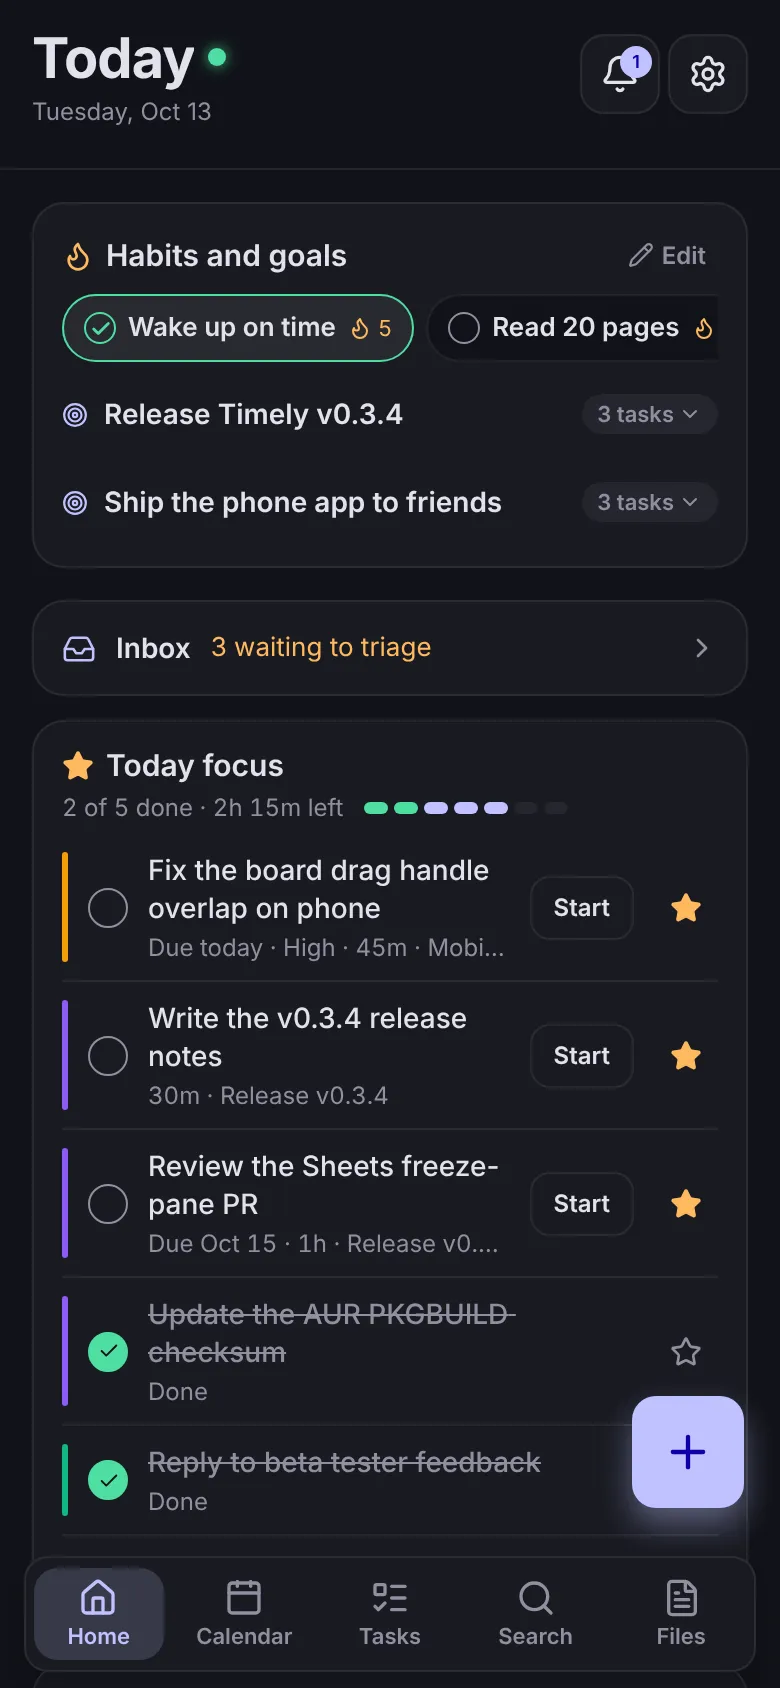
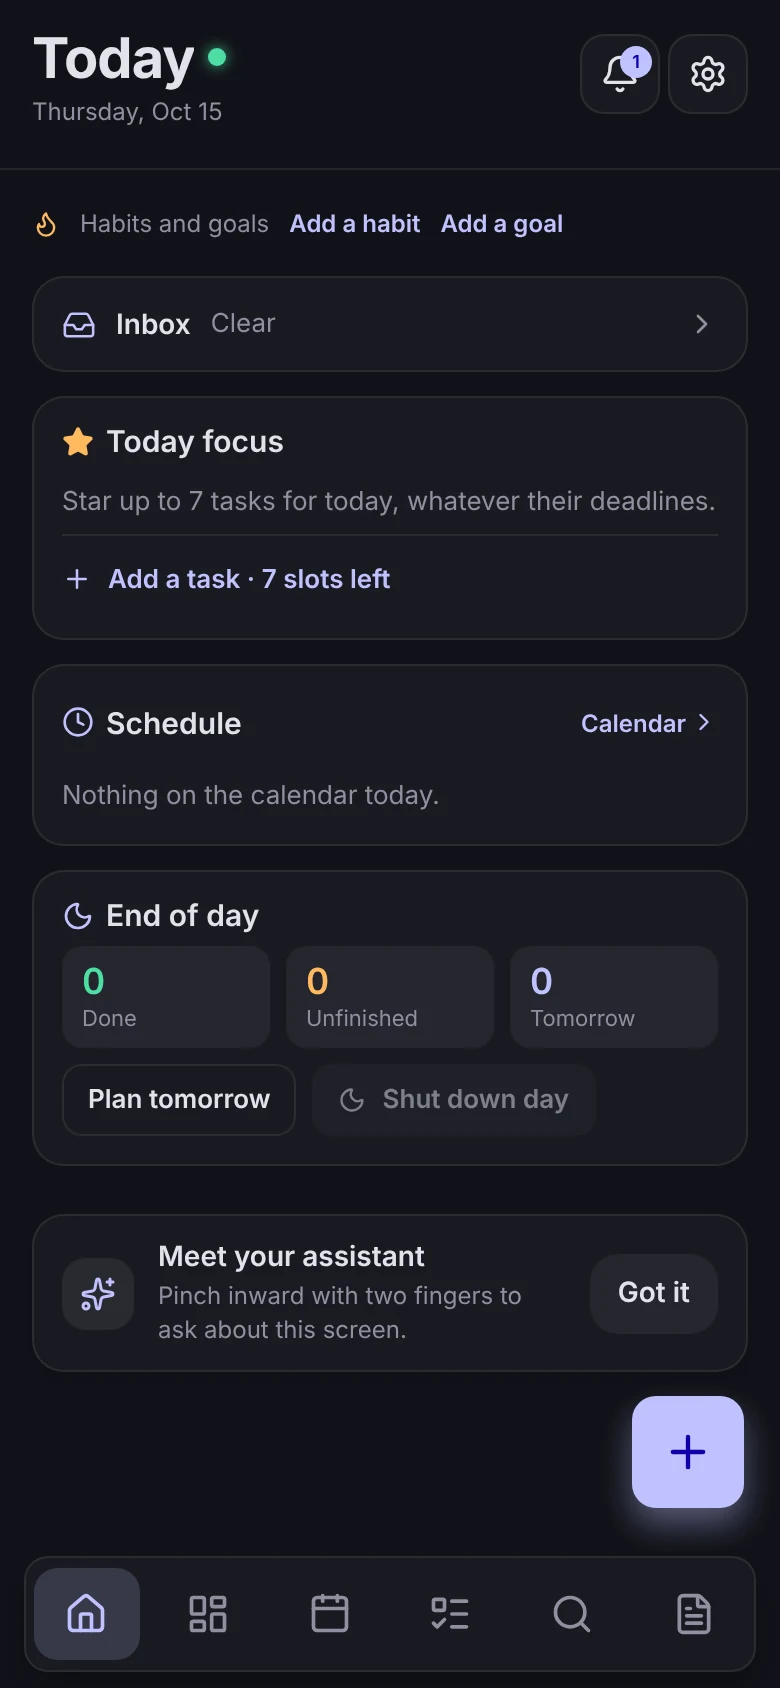
Help home: what's new since v0.3.3, fresh screenshots, fixed links
Adds a "New since v0.3.3" list to the help home, switches its tours to
the card workshop, widgets and assistant chapters, and fixes the landing
film's links to the Inbox and widgets articles. New help screenshots
from the real app: Today as a day board, the Card workshop, search
views, the phone Home with the icon bar, and the Android widgets.

Claude-Session: https://claude.ai/code/session_01VbiCjzuFRnKb4ZiA6E3HZ2

diff --git a/apps/web/app/help/page.tsx b/apps/web/app/help/page.tsx
@@ -28,8 +28,20 @@ const PLATFORMS = [
   { name: "Android", detail: "APK that pairs by QR code", mark: AndroidMark, href: "/help/install/android", color: "#4edea3" },
 ];
 
+/** What changed since v0.3.3, newest first; each row opens the part of an article that explains it. */
+const NEW = [
+  { title: "Card workshop", body: "Build your own Dashboard card from tasks, events, a sheet or a doc.", href: "/help/notes/dashboard" },
+  { title: "Home-screen widgets", body: "Today, Quick add, Pomodoro, Timer and any Dashboard card on Android.", href: "/help/start/widgets" },
+  { title: "Today as a day board", body: "Your day, free slots and what is next on one dense screen.", href: "/help/plan/today" },
+  { title: "Search in plain words", body: "Type what you want to see, then save it as a view.", href: "/help/notes/search" },
+  { title: "Help me write", body: "Drafts and rewrites inside docs and task descriptions.", href: "/help/notes/docs" },
+  { title: "Doc lines become tasks", body: "A line that reads like a task is offered once, with a link back.", href: "/help/notes/docs" },
+  { title: "Sheets for agents", body: "Formulas, frozen panes on the phone, and MCP tools that write to a tab.", href: "/help/notes/sheets" },
+  { title: "Tidier phone screens", body: "Grouped settings, task and project sheets, and the predictive back gesture.", href: "/help/start/phone-app" },
+];
+
 /** Three chapters of the film double as short tours here. */
-const TOURS = ["auto-schedule", "assistant", "agents"].map((id) => CHAPTERS.find((chapter) => chapter.id === id)!);
+const TOURS = ["cards", "widgets", "assistant"].map((id) => CHAPTERS.find((chapter) => chapter.id === id)!);
 
 export default function HelpHome() {
   return (
@@ -64,6 +76,31 @@ export default function HelpHome() {
             ))}
           </ul>
         </div>
+      </section>
+
+      {/* What's new: one grouped card of rows, two columns on wide screens. */}
+      <section aria-labelledby="new-heading" className="border-t border-[var(--s-line)] py-12">
+        <Reveal className="flex flex-wrap items-end justify-between gap-3">
+          <div>
+            <h2 id="new-heading" className="s-display text-[1.75rem] sm:text-[2.2rem]">
+              New since v0.3.3
+            </h2>
+            <p className="s-soft mt-2">What changed, and where the help explains it.</p>
+          </div>
+        </Reveal>
+        <ul className="s-card mt-6 grid overflow-hidden p-0 lg:grid-cols-2">
+          {NEW.map((item, i) => (
+            <li key={item.title} className={`border-[var(--s-line)] ${i > 0 ? "border-t" : ""} ${i === 1 ? "lg:border-t-0" : ""} ${i % 2 === 1 ? "lg:border-l" : ""}`}>
+              <Link href={item.href} className="group flex h-full items-center gap-4 px-5 py-4 hover:bg-white/[0.03]">
+                <span className="min-w-0 flex-1">
+                  <span className="block font-semibold">{item.title}</span>
+                  <span className="s-soft block text-sm leading-relaxed">{item.body}</span>
+                </span>
+                <ArrowRight className="size-4 shrink-0 text-[var(--s-faint)] transition-[color,translate] group-hover:translate-x-0.5 group-hover:text-[var(--s-primary)]" />
+              </Link>
+            </li>
+          ))}
+        </ul>
       </section>
 
       {/* Install */}

diff --git a/apps/web/app/_components/film/chapters.ts b/apps/web/app/_components/film/chapters.ts
@@ -30,7 +30,7 @@ export const CHAPTERS: Chapter[] = [
     headline: "Get it out of your head.",
     body: "Type anything into the Inbox the moment you think of it, on the desktop, from the phone's Quick add bar, or by voice. Sort it later: clarify it, schedule it or park it for someday.",
     facts: ["One box, no fields to fill", "Ctrl/Cmd+K from anywhere", "A Quick add widget on Android"],
-    help: "/help/plan/capture",
+    help: "/help/plan/inbox",
     color: C.violet,
     frames: SCENE,
   },
@@ -129,7 +129,7 @@ export const CHAPTERS: Chapter[] = [
     headline: "Your day on the Home screen.",
     body: "Today, habits, Pomodoro, timers, counters from a sheet and Quick add, as Android widgets. Tick a box or start a timer and it happens on the phone, without opening the app.",
     facts: ["Interactive, not just pictures", "Any Dashboard card, built-in or your own", "Live notification during focus"],
-    help: "/help/start/phone",
+    help: "/help/start/widgets",
     color: C.orange,
     frames: SCENE,
   },

diff --git a/apps/web/app/_components/help/ui.tsx b/apps/web/app/_components/help/ui.tsx
@@ -10,14 +10,15 @@ import CopyButton from "./copyButton";
 const DESKTOP = { width: 1920, height: 1200 };
 const PHONE = { width: 780, height: 1688 };
 
-export function Shot({ src, alt, caption }: { src: string; alt: string; caption?: ReactNode }) {
+/** A desktop screenshot; pass `size` when the image is not 16:10 (widget galleries, crops). */
+export function Shot({ src, alt, caption, size = DESKTOP }: { src: string; alt: string; caption?: ReactNode; size?: { width: number; height: number } }) {
   return (
     <figure className="not-prose my-7">
       <div className="overflow-hidden rounded-[12px] border border-[var(--s-line-strong)] bg-[var(--s-panel)] p-1 shadow-[0_24px_70px_-40px_rgba(0,0,0,0.9)]">
         <Image
           src={`/help/${src}.webp`}
           alt={alt}
-          {...DESKTOP}
+          {...size}
           sizes="(min-width: 1280px) 760px, (min-width: 768px) 70vw, 100vw"
           className="block h-auto w-full rounded-[8px]"
         />
